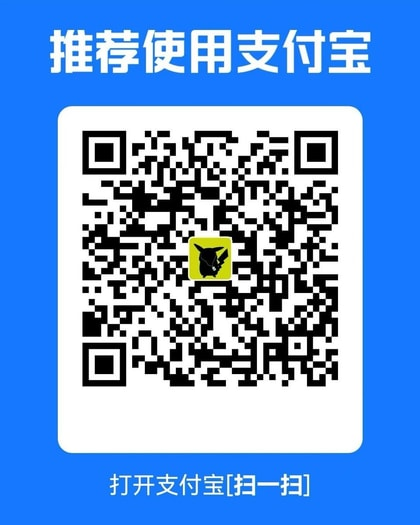
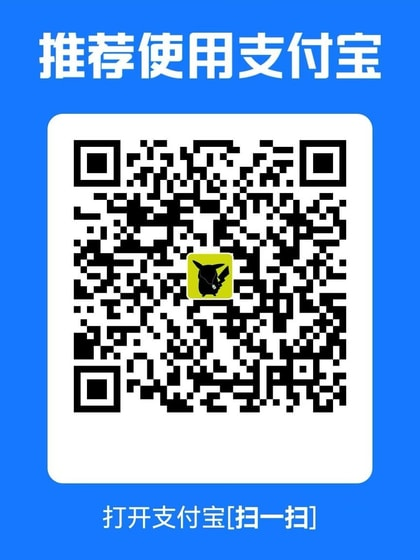
docs: use latest donation QR images (420x560); bump 1.0.6

diff --git a/__init__.py b/__init__.py
@@ -19,7 +19,7 @@ from .nodes import DeepSeekModelNode
 from .nodes_balance import DeepSeekBalanceNode
 from .nodes_search import DeepSeekSearchNode
 
-__version__ = "1.0.5"
+__version__ = "1.0.6"
 
 
 class DeepSeekExtension(ComfyExtension):

diff --git a/CHANGELOG.md b/CHANGELOG.md
@@ -1,6 +1,10 @@
 # 更新记录
 
-当前版本：**1.0.5**（2026-11-15）
+当前版本：**1.0.6**（2026-11-15）
+
+**1.0.6**（2026-11-15）
+
+- 收款码更新为最新两张原图（420×560，未裁剪）
 
 **1.0.5**（2026-11-15）
 
